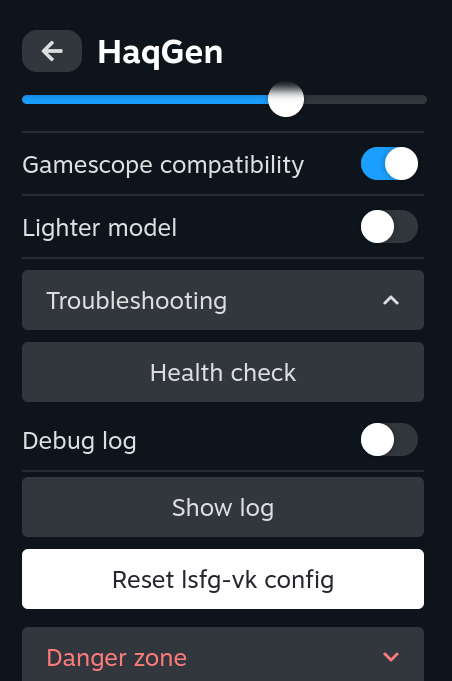
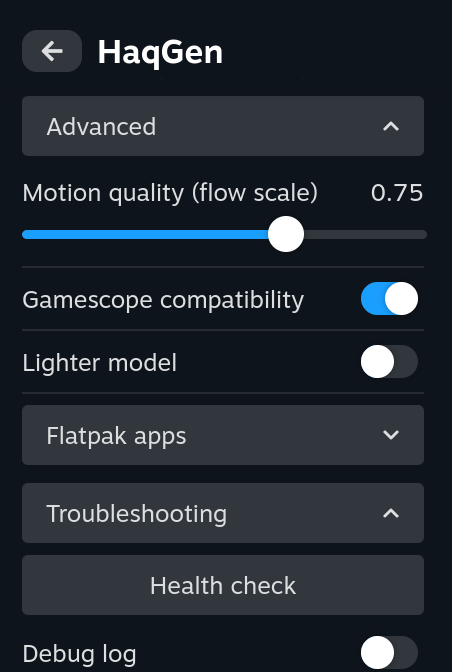
Update screenshots

diff --git a/index.html b/index.html
@@ -94,8 +94,8 @@
     </p>
 
     <div class="shots">
-      <img src="screenshot-main.png" alt="HaqGen main controls in the Steam Deck Quick Access menu" width="300" height="452" loading="lazy">
-      <img src="screenshot-advanced.png" alt="HaqGen advanced settings and troubleshooting" width="300" height="452" loading="lazy">
+      <img src="screenshot-main.png" alt="HaqGen main controls in the Steam Deck Quick Access menu" width="300" height="435" loading="lazy">
+      <img src="screenshot-advanced.png" alt="HaqGen advanced settings and troubleshooting" width="300" height="446" loading="lazy">
     </div>
 
     <h2>Features</h2>
